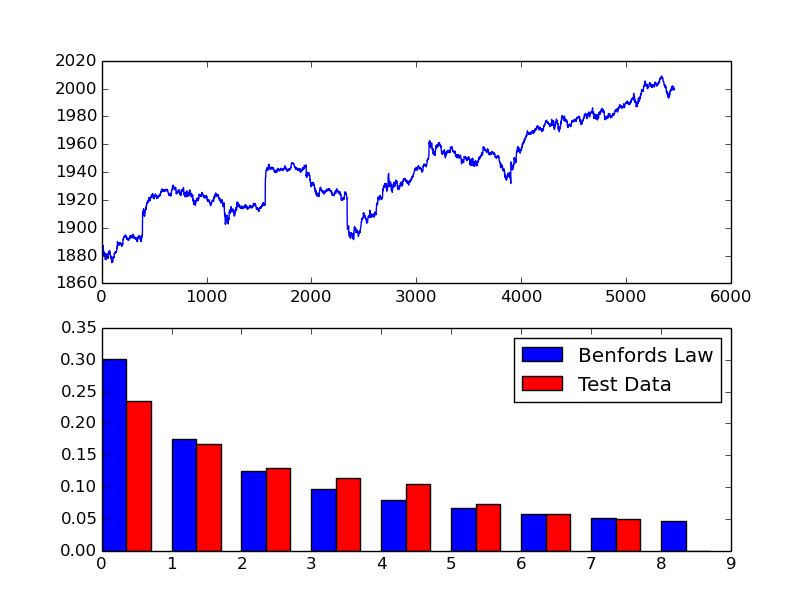
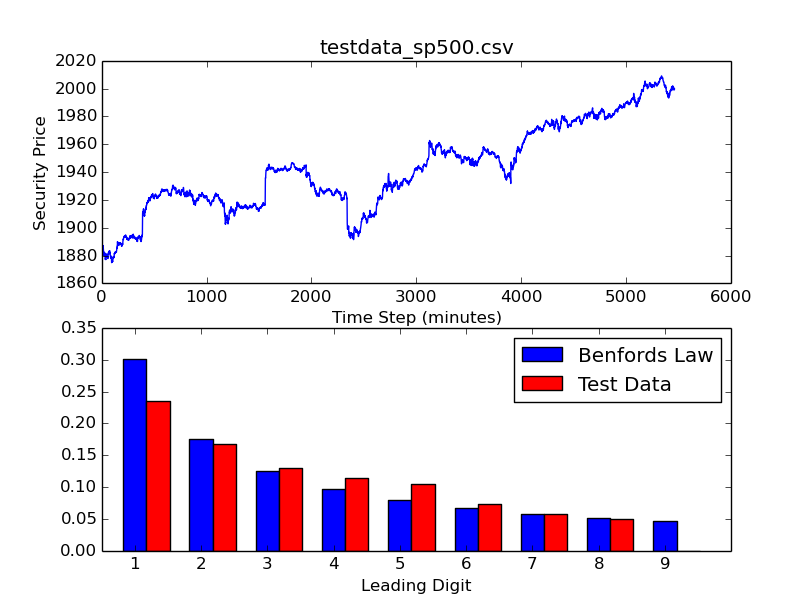
tweaking and tidying

diff --git a/app.py b/app.py
@@ -1,9 +1,3 @@
-from datetime import datetime
-from pytz import timezone
-import MySQLdb
-import time
-import database as database
-import marketutil as util
 import csv
 import calcs as calc
 import matplotlib.pyplot as plt
@@ -15,10 +9,7 @@ import numpy as np
 ####
 # SCRAPER CODE to get index values from yahoo finance - commented out for demo
 ####
-
-
 # tickerList={'000001.ss':'000001.ss','%5EGSPC':'^gspc','%5EFTSE':'^ftse','%5EGDAXI':'^gdaxi','%5EN225':'^n225'}
-
 # while True:
 # 	for ticker,span in tickerList.items():
 # 		if (util.marketIsOpen(ticker)):
@@ -29,31 +20,46 @@ import numpy as np
 # 			except:
 # 				pass
 #  	time.sleep(60)
+
 benford=[0.301,0.176,0.125,0.097,0.079,0.067,0.058,0.051,0.046]
 minutePriceCloses=[]
-with open('testdata_sp500.csv', 'rb') as csvfile:
+fileName='testdata_sp500.csv'
+## For now, let's just use test data
+
+with open(fileName, 'rb') as csvfile:
 	reader = csv.reader(csvfile, delimiter=',')
 	for row in reader:
 		minutePriceCloses.append(row[2])
+
+# calculate the price changes from minute to minute		
 minutePriceChanges=calc.getPriceStepDifferences(minutePriceCloses)
-
+# calculate the percentage distribution of leading digits for these changes
 benford_test_data_dist=calc.getBenfordDist(minutePriceChanges)
-
+# count how many instances of each leading digit occur
 benford_test_count=calc.getBenfordCount(minutePriceChanges)
-print("actual counts: "+str(benford_test_count))
+# calculate how many you would have expected to occur if benfords law held
 benford_exp_count=calc.getExpectedBenfordCount(minutePriceChanges)
-print("expected counts: "+str(benford_exp_count))
-
+#calculate the chi-sq value to estimate the probability that the results follow benfords law
 chi_sq=calc.getChiSquared(benford_test_count,benford_exp_count)
 print("Chi Sq: "+str(chi_sq))
 
-ind=np.arange(9)
+#setup plotting
+ind=np.arange(1,10)
+width = 0.35
 plt.figure(1)
 plt.subplot(211)
-width = 0.35
+plt.title(fileName)
 plt.plot(minutePriceCloses)
+plt.ylabel('Security Price')
+plt.xlabel('Time Step (minutes)')
+
 plt.subplot(212)
-p1=plt.bar(ind,benford,width,color='b')
-p2=plt.bar(ind+width,benford_test_data_dist,width, color='r')
+plt.xlabel('Leading Digit')
+plt.ylabel('P(d)')
+plt.xlim(0.5,10)
+plt.xticks([1,2,3,4,5,6,7,8,9])
+
+p1=plt.bar(ind,benford,width,color='b', align='center')
+p2=plt.bar(ind+width,benford_test_data_dist,width, color='r', align='center')
 plt.legend((p1[0],p2[0]),('Benfords Law','Test Data'))
 plt.show()
